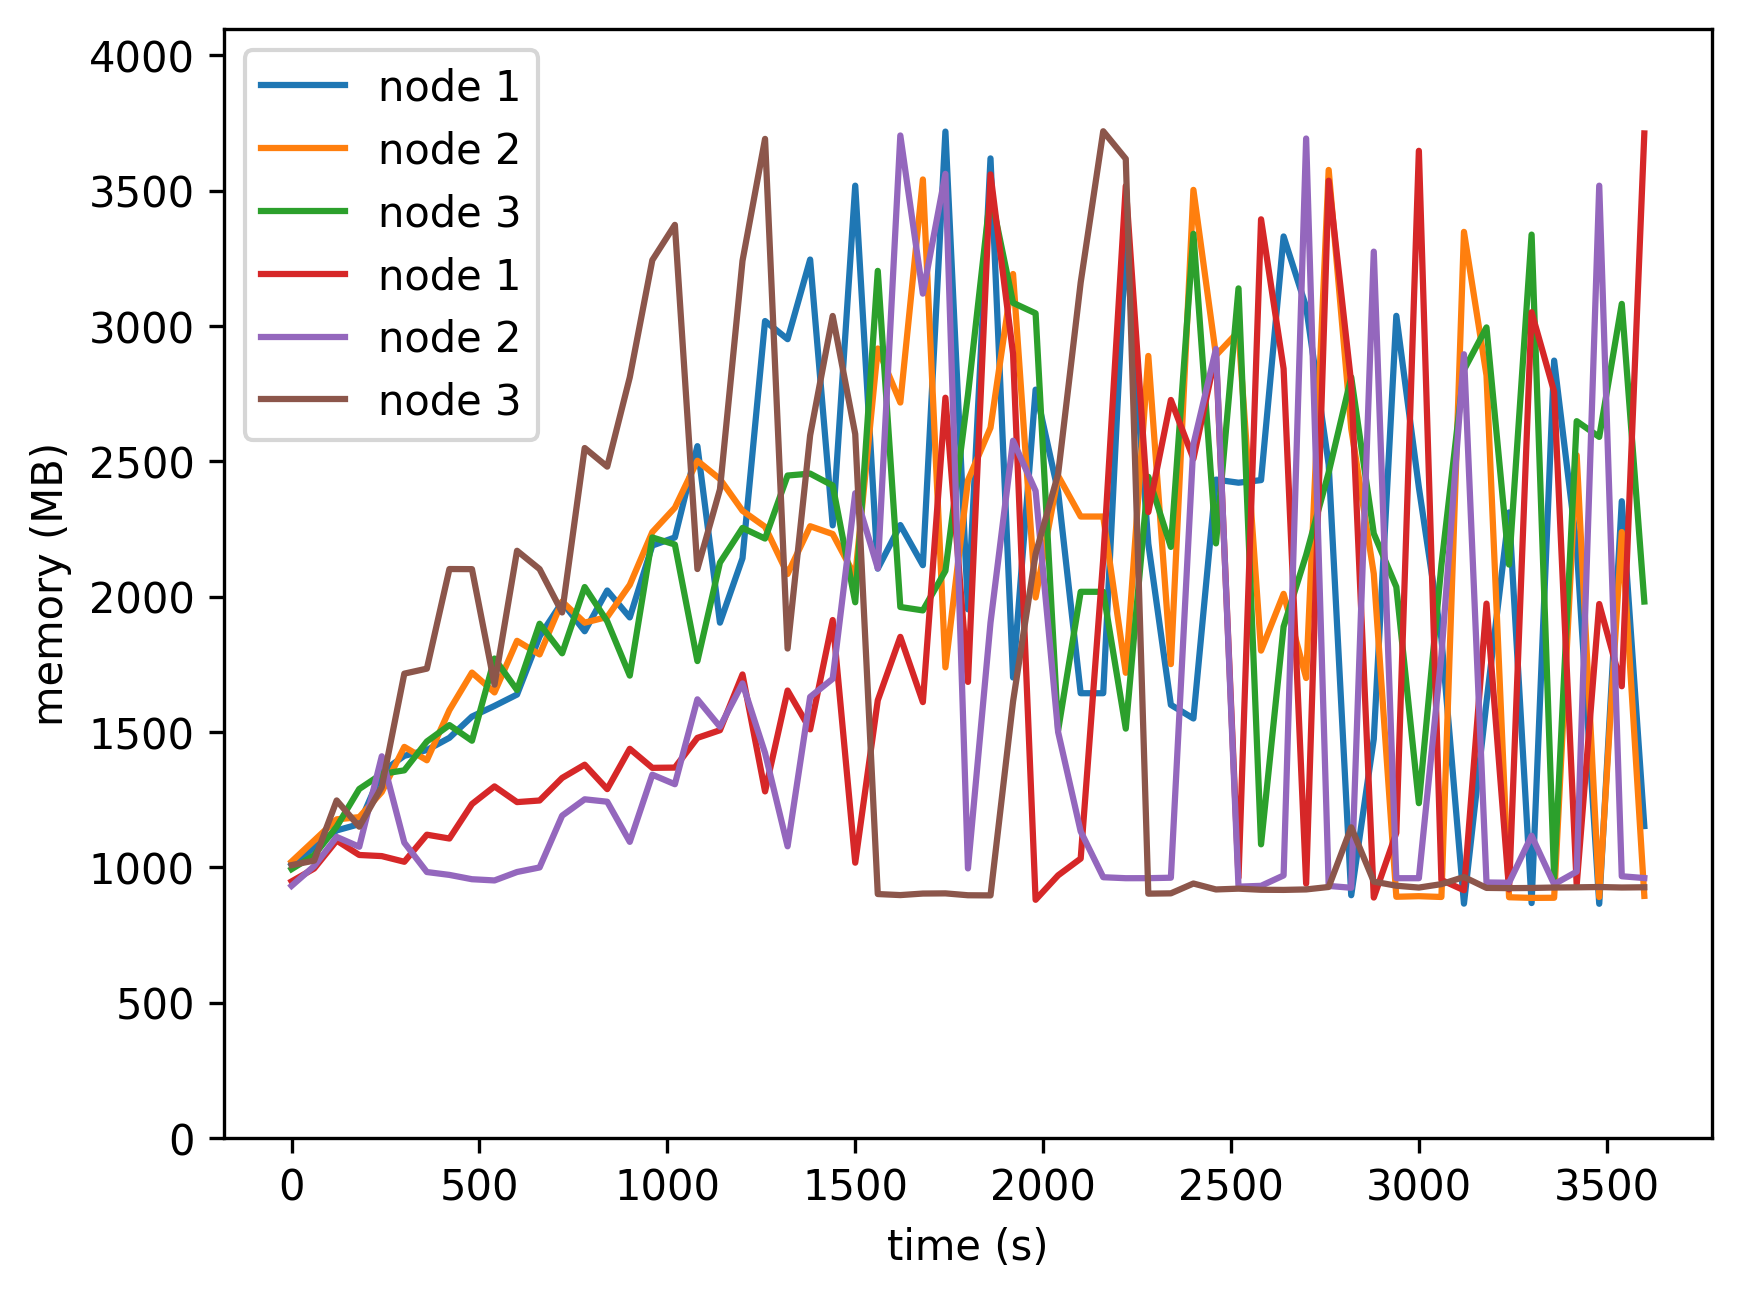
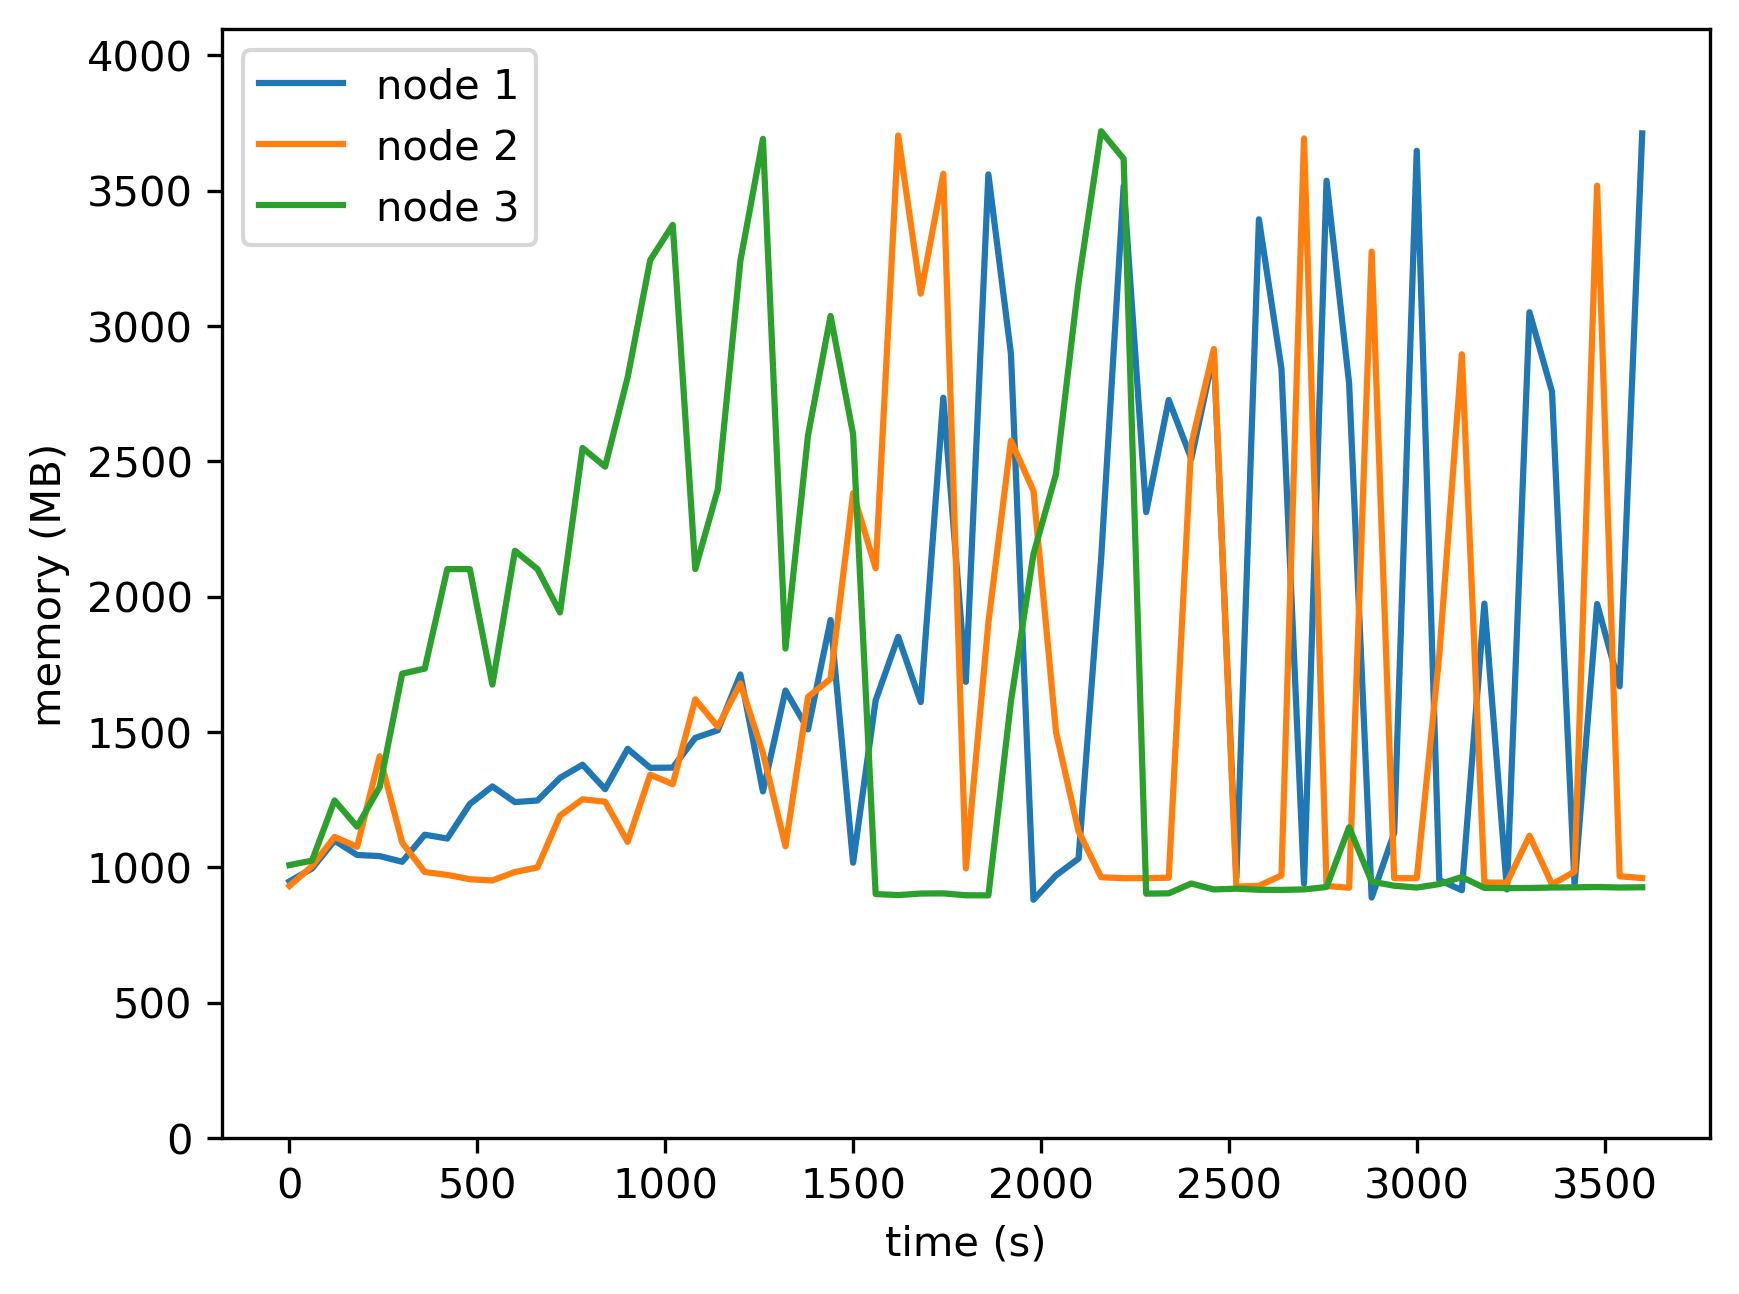
ALQI-0000 fix: style

Changed region(s): [[0.0, 0.0309, 0.9937, 0.9274], [0.5279, 0.9583, 0.5589, 0.9892]]

diff --git a/graphics_generator.py b/graphics_generator.py
@@ -12,7 +12,6 @@ for path in Path("./").glob("metrics_*.csv"):
   FILE_NAME, FILE_EXTENSION = os.path.splitext(path)
   print("Reading " + str(path))
   timestamp, m_node1, pa_node1, m_node2, pa_node2, m_node3, pa_node3 = np.loadtxt(FILE_NAME + '.csv', unpack=True, delimiter=',', skiprows=1)
-
   m_node1_mb = list(map(lambda n: n/1024, m_node1))
   m_node2_mb = list(map(lambda n: n/1024, m_node2))
   m_node3_mb = list(map(lambda n: n/1024, m_node3))
@@ -26,3 +25,6 @@ for path in Path("./").glob("metrics_*.csv"):
   plt.legend(loc="upper left")
   print("Generating " + FILE_NAME + ".png")
   plt.savefig(FILE_NAME + '.png', dpi=300, transparent=False, bbox_inches='tight')
+  plt.close()
+  plt.cla()
+  plt.clf()
